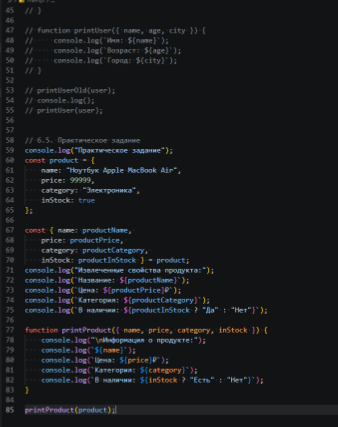
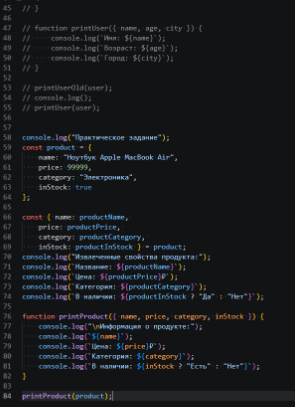
spread/rest in JS

Changed region(s): [[0.0, 0.0, 0.9153, 1.0]]

diff --git a/js/main.js b/js/main.js
@@ -55,31 +55,112 @@
 // printUser(user);
 
 
-// 6.5. Практическое задание
+// console.log("Практическое задание");
+// const product = {
+//     name: "Ноутбук Apple MacBook Air",
+//     price: 99999,
+//     category: "Электроника",
+//     inStock: true
+// };
+
+// const { name: productName, 
+//     price: productPrice, 
+//     category: productCategory, 
+//     inStock: productInStock } = product;
+// console.log("Извлеченные свойства продукта:");
+// console.log(`Название: ${productName}`);
+// console.log(`Цена: ${productPrice}₽`);
+// console.log(`Категория: ${productCategory}`);
+// console.log(`В наличии: ${productInStock ? "Да" : "Нет"}`);
+
+// function printProduct({ name, price, category, inStock }) {
+//     console.log("\nИнформация о продукте:");
+//     console.log(`${name}`);
+//     console.log(`Цена: ${price}₽`);
+//     console.log(`Категория: ${category}`);
+//     console.log(`В наличии: ${inStock ? "Есть" : "Нет"}`);
+// }
+
+// printProduct(product);
+
+
+// console.log("Spread оператор для массивов");
+// const arr1 = [1, 2, 3];
+// const arr2 = [4, 5, 6];
+
+// const combined = [...arr1, ...arr2];
+// console.log("Объединённый массив:", combined);
+
+// const copy = [...arr1];
+// console.log("Копия массива:", copy);
+
+// const extended = [0, ...arr1, 7, 8];
+// console.log("Расширенный массив:", extended);
+
+
+// console.log("Spread оператор для объектов");
+
+// const person = {
+//     name: "Иван",
+//     age: 30
+// };
+
+// const address = {
+//     city: "Санкт-Петербург",
+//     street: "Невский проспект"
+// };
+
+// const fullInfo = { ...person, ...address };
+// console.log("Полная информация:", fullInfo);
+
+// const personCopy = { ...person };
+// console.log("Копия объекта:", personCopy);
+
+// const updated = { ...person, age: 31, occupation: "Developer" };
+// console.log("Обновлённый объект:", updated);
+
+
+// console.log("Rest оператор");
+
+// function sum(...numbers) {
+//     return numbers.reduce((total, num) => total + num, 0);
+// }
+
+// console.log("Сумма 1,2,3:", sum(1, 2, 3));
+// console.log("Сумма 1,2,3,4,5:", sum(1, 2, 3, 4, 5));
+
+// const numbers = [10, 20, 30, 40, 50];
+// const [first, second, ...rest] = numbers;
+// console.log("Первое число:", first);
+// console.log("Второе число:", second);
+// console.log("Остальные числа:", rest);
+
+
 console.log("Практическое задание");
-const product = {
-    name: "Ноутбук Apple MacBook Air",
-    price: 99999,
-    category: "Электроника",
-    inStock: true
-};
 
-const { name: productName, 
-    price: productPrice, 
-    category: productCategory, 
-    inStock: productInStock } = product;
-console.log("Извлеченные свойства продукта:");
-console.log(`Название: ${productName}`);
-console.log(`Цена: ${productPrice}₽`);
-console.log(`Категория: ${productCategory}`);
-console.log(`В наличии: ${productInStock ? "Да" : "Нет"}`);
+const array1 = [1, 3, 5, 7, 9];
+const array2 = [2, 4, 6, 8, 10];
 
-function printProduct({ name, price, category, inStock }) {
-    console.log("\nИнформация о продукте:");
-    console.log(`${name}`);
-    console.log(`Цена: ${price}₽`);
-    console.log(`Категория: ${category}`);
-    console.log(`В наличии: ${inStock ? "Есть" : "Нет"}`);
+const mergedArray = [...array1, ...array2];
+console.log("Объединенные массивы:", mergedArray);
+
+function findMax(...numbers) {
+    if (numbers.length === 0) return null;
+    return Math.max(...numbers);
 }
 
-printProduct(product);
+console.log("Максимум из 5, 12, 8, 3:", findMax(5, 12, 8, 3));
+console.log("Максимум из 100, 250, 175:", findMax(100, 250, 175));
+
+const car = {
+    brand: "Tesla",
+    model: "Model 3"
+};
+
+const specs = {
+    range: "500km",
+    acceleration: "3.3s"
+};
+
+const fullCar = { ...car, ...specs };
+console.log("Объединенный объект автомобиля:", fullCar);
